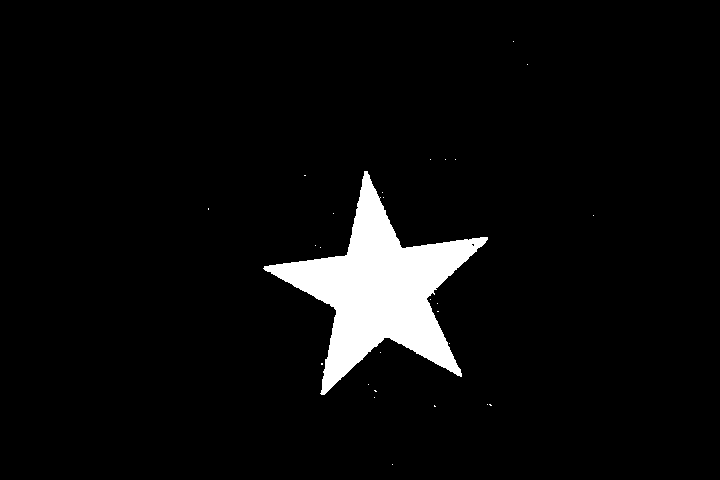
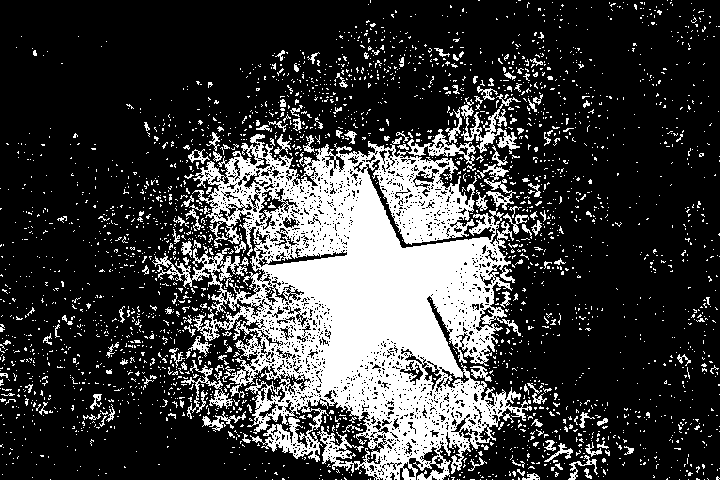
a

diff --git a/scan.py b/scan.py
@@ -38,21 +38,21 @@ while(scanNum < maxScans):
     #s=180-190
     #v=230-250
 
-    lower_orange = np.array([0,100,100])
-    upper_orange = np.array([20,255,255])
+    lower_orange = np.array([0,80,100])
+    upper_orange = np.array([35,255,255])
 
     # Threshold the HSV image to get only orange colors
     mask = cv2.inRange(hsv, lower_orange, upper_orange)
 
     edges = cv2.Canny(mask,50,150,apertureSize = 3)
 
-    lines = cv2.HoughLines(edges,1,np.pi/180,50)
+    lines = cv2.HoughLines(edges,1,np.pi/180,45)
 
     if lines is not None:
         print "line count: " + str(len(lines[0]))
 
-    lowerAngle = 28
-    upperAngle = 42
+    lowerAngle = 31
+    upperAngle = 41
 
     starAngleCount = 0
     if lines != None and len(lines) > 0:

diff --git a/readImageAndModify.py b/readImageAndModify.py
@@ -28,8 +28,8 @@ print len(hsv[0])
 #s=180-190
 #v=230-250
 
-lower_orange = np.array([2,100,100])
-upper_orange = np.array([18,255,255])
+lower_orange = np.array([0,100,100])
+upper_orange = np.array([35,255,255])
 
 # Threshold the HSV image to get only orange colors
 mask = cv2.inRange(hsv, lower_orange, upper_orange)

diff --git a/getLines.py b/getLines.py
@@ -11,7 +11,7 @@ img = cv2.imread("mask.png", 0)
 #mask.png is already binary
 edges = cv2.Canny(img,50,150,apertureSize = 3)
 
-lines = cv2.HoughLines(edges,1,np.pi/180,55)
+lines = cv2.HoughLines(edges,1,np.pi/180,50)
 for rho,theta in lines[0]:
     a = np.cos(theta)
     b = np.sin(theta)
